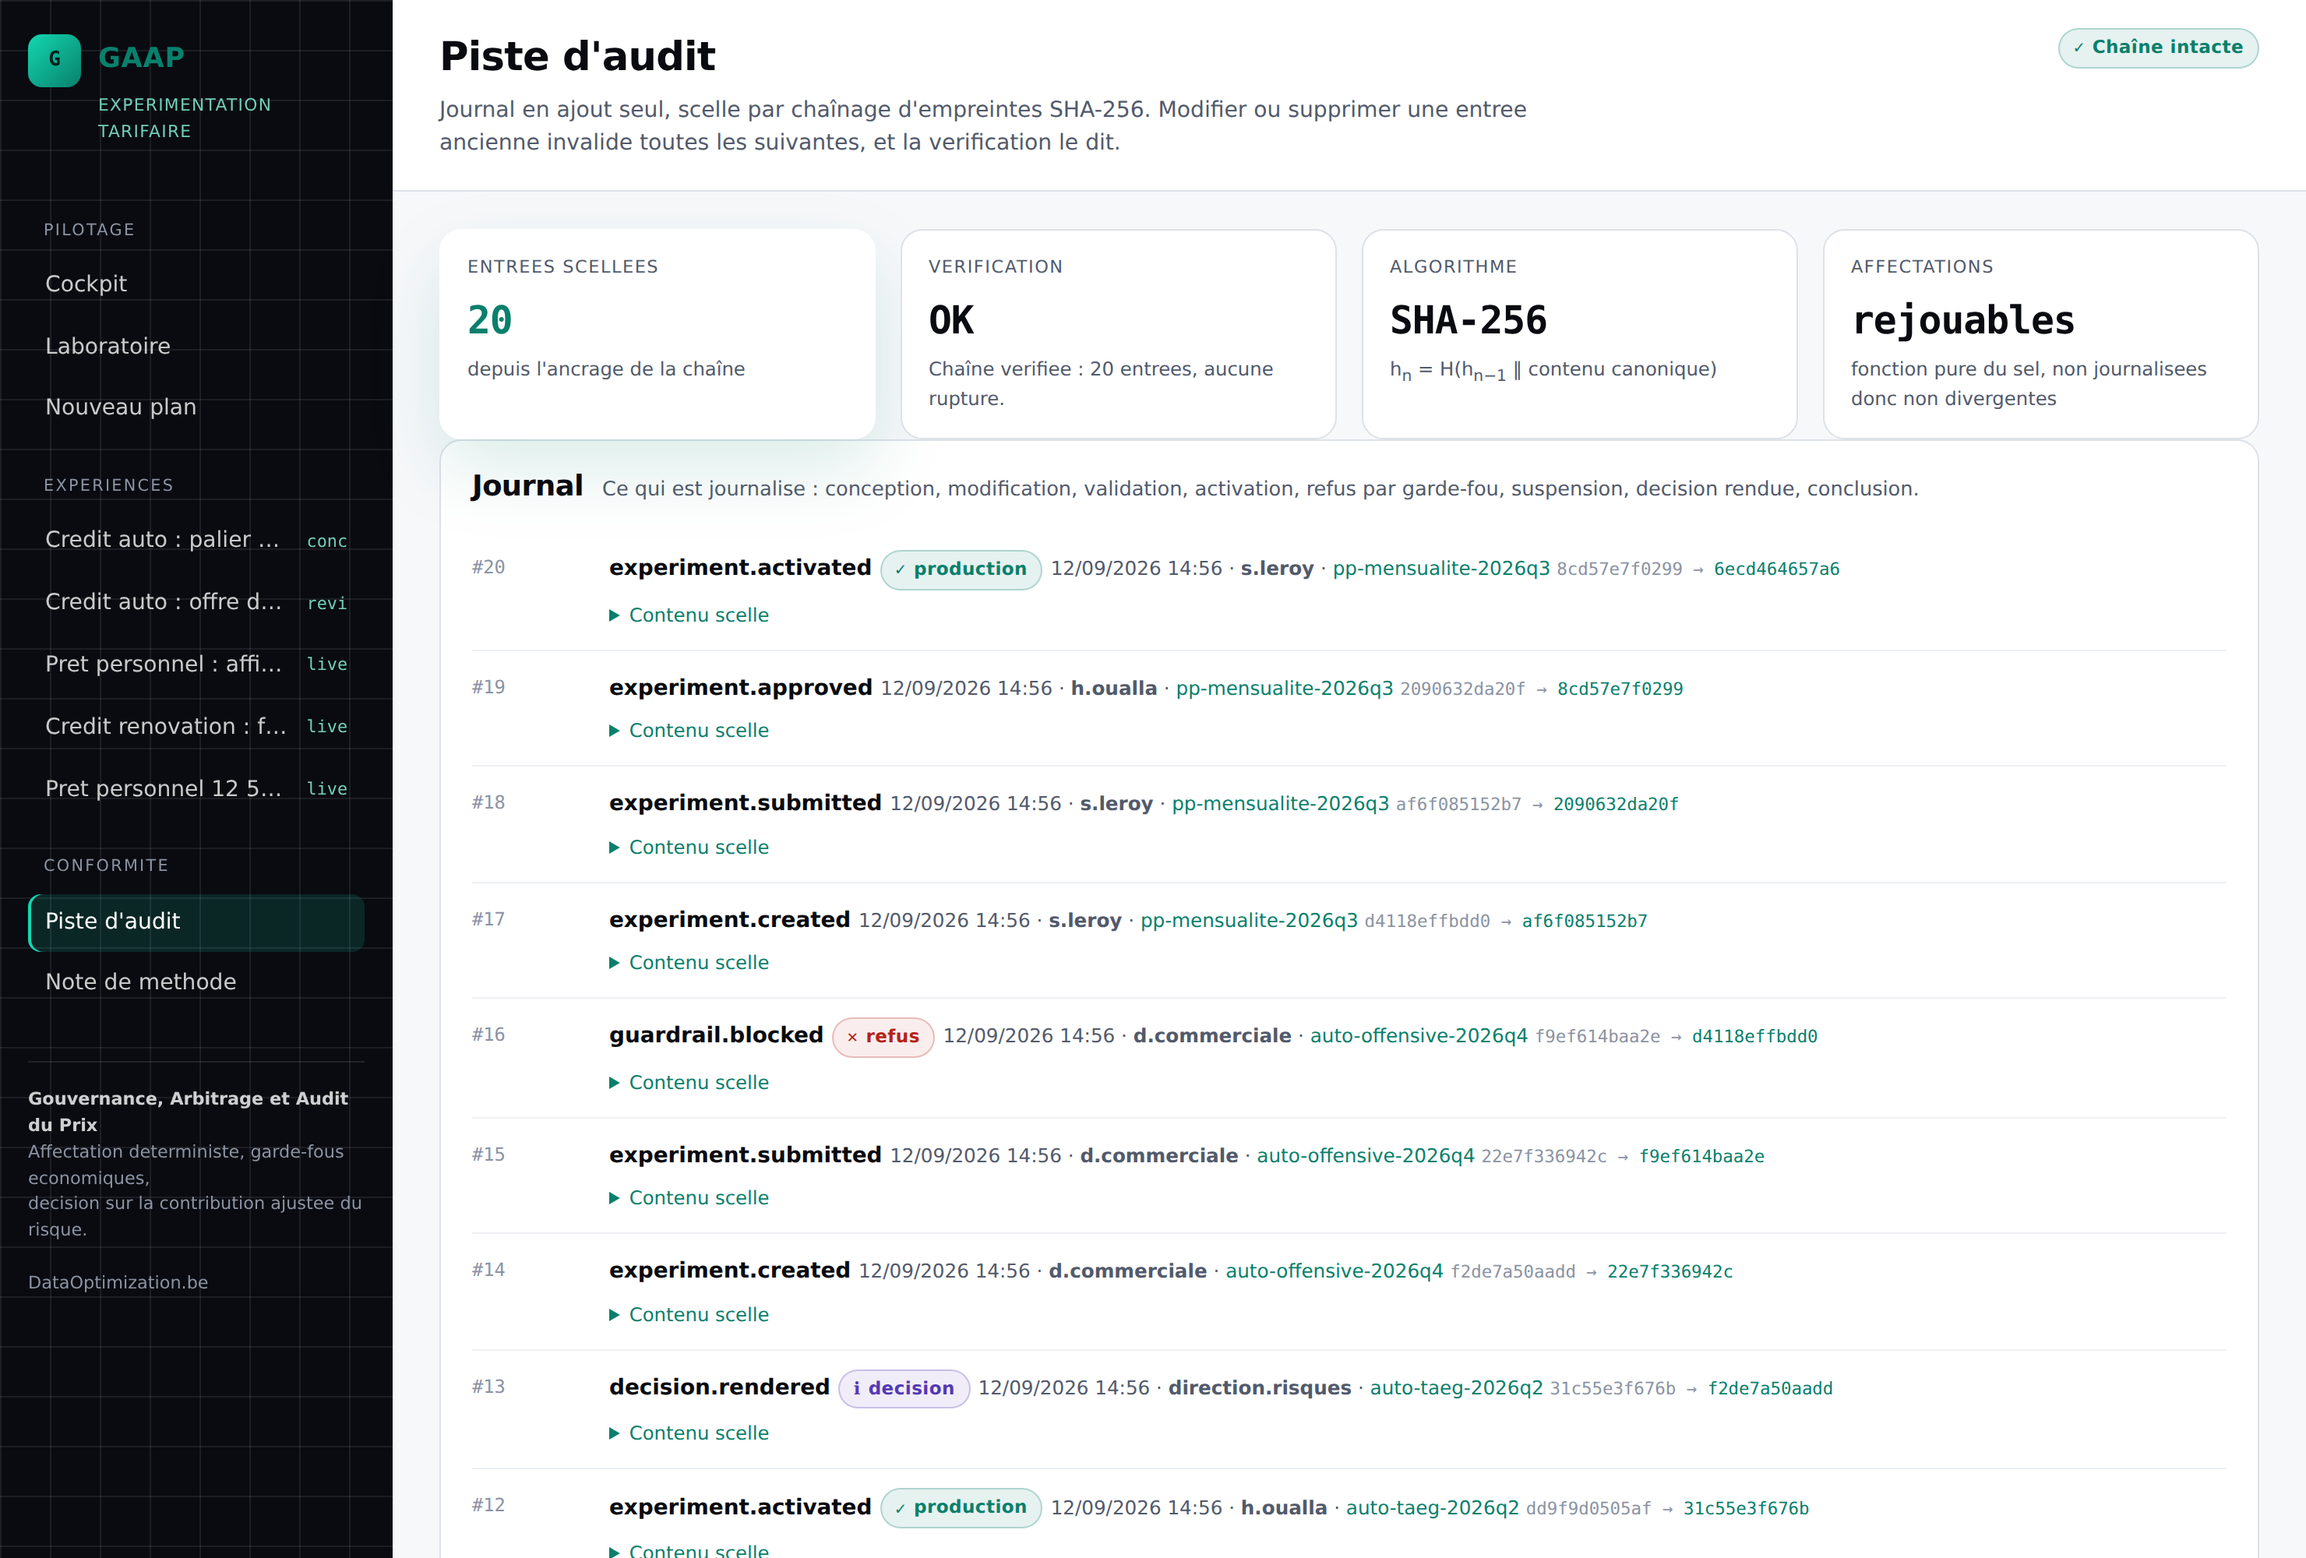
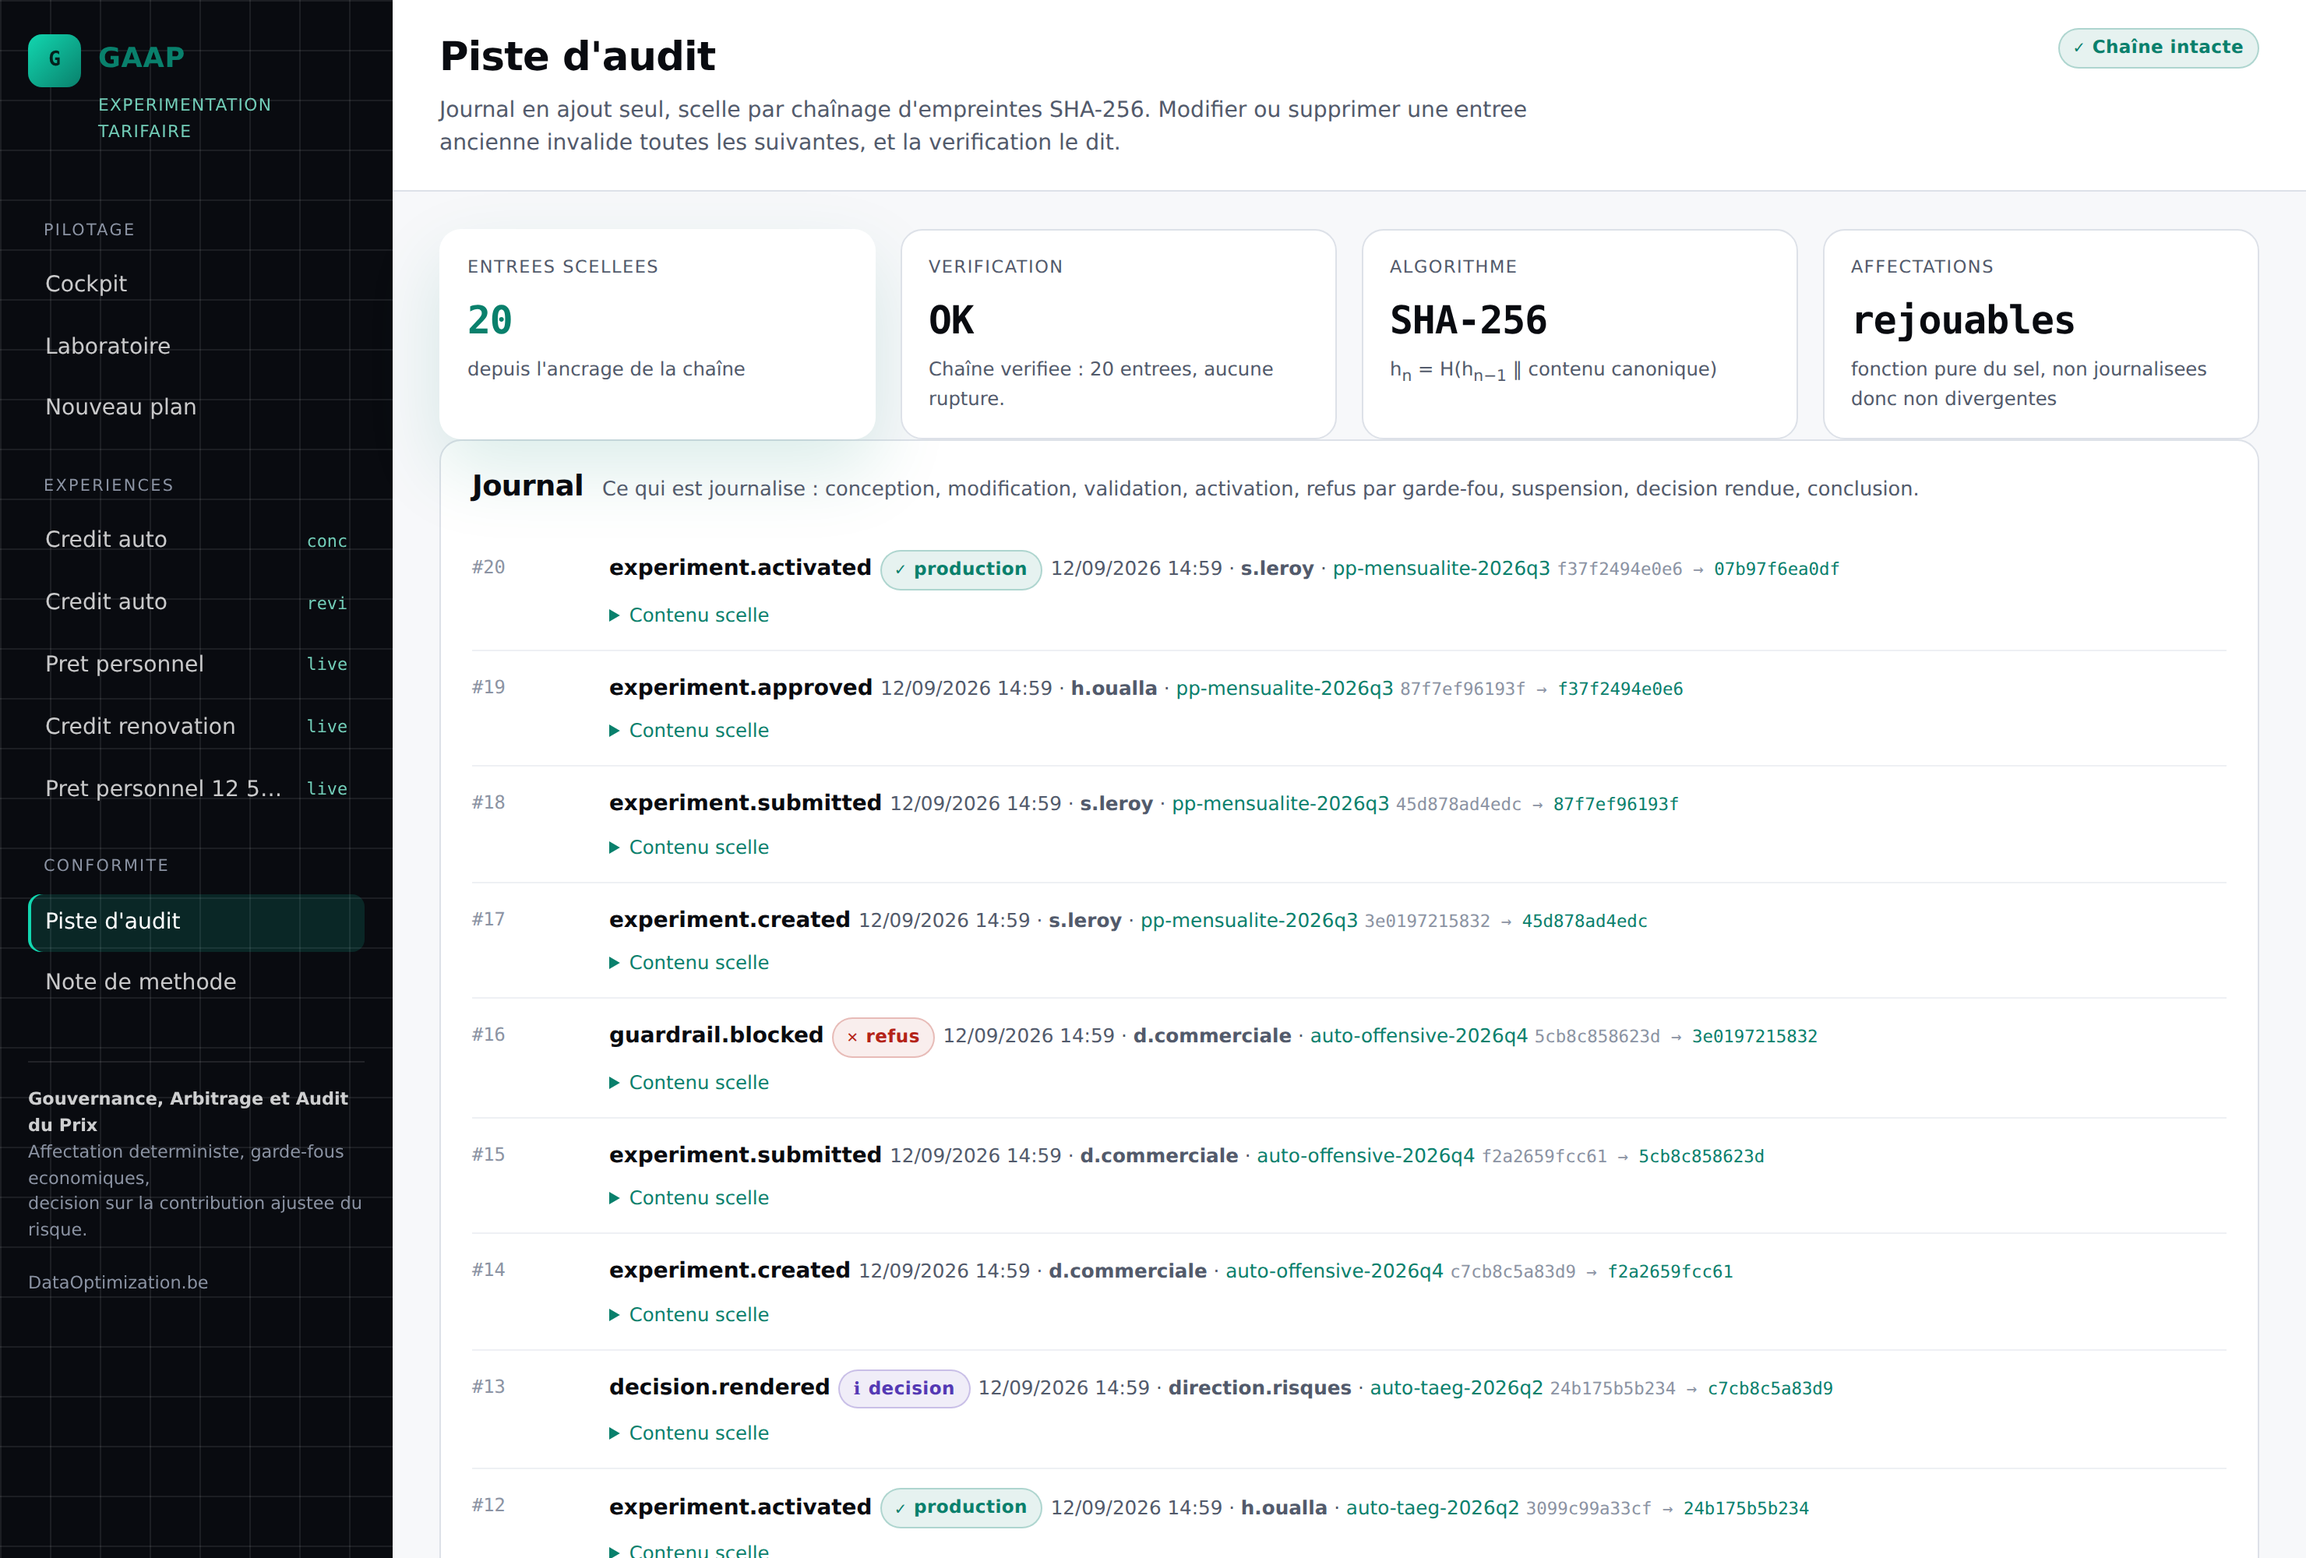
Restaure le trait d'union dans les noms d'experiences
Le commit precedent avait remplace le trait d'union separateur des titres
d'experiences par un deux-points, par exces de zele : « Pret personnel
12 500 EUR - echelle de TAEG » est un usage typographique normal et n'a rien
du tic de ponctuation vise.

Le cadratin reste banni du depot, le trait d'union orthographique reste en
place.

Claude-Session: https://claude.ai/code/session_01EVQ9i8KhZTisCbb9mNP6nF

diff --git a/gaap/demo.py b/gaap/demo.py
@@ -83,7 +83,7 @@ def build_portfolio() -> list[tuple[Experiment, dict]]:
     portfolio.append((
         Experiment(
             key="pp-taeg-2026q3",
-            name="Pret personnel 12 500 EUR : echelle de TAEG",
+            name="Pret personnel 12 500 EUR - echelle de TAEG",
             product="Pret personnel",
             hypothesis=(
                 "Le TAEG courant de 6,90 % est positionne sous le prix qui maximise la "
@@ -124,7 +124,7 @@ def build_portfolio() -> list[tuple[Experiment, dict]]:
     portfolio.append((
         Experiment(
             key="reno-frais-2026q3",
-            name="Credit renovation : frais de dossier",
+            name="Credit renovation - frais de dossier",
             product="Credit renovation energetique",
             hypothesis=(
                 "La suppression des frais de dossier (125 EUR) ameliore le take-up "
@@ -162,7 +162,7 @@ def build_portfolio() -> list[tuple[Experiment, dict]]:
     portfolio.append((
         Experiment(
             key="auto-taeg-2026q2",
-            name="Credit auto : palier 25 bps",
+            name="Credit auto - palier 25 bps",
             product="Credit auto",
             hypothesis=(
                 "Un palier de 25 bps est invisible pour le client sur un marche ou la "
@@ -200,7 +200,7 @@ def build_portfolio() -> list[tuple[Experiment, dict]]:
     portfolio.append((
         Experiment(
             key="auto-offensive-2026q4",
-            name="Credit auto : offre de conquete 3,90 %",
+            name="Credit auto - offre de conquete 3,90 %",
             product="Credit auto",
             hypothesis=(
                 "Un taux d'appel a 3,90 % sur les primo-accedants doit capter des parts "
@@ -236,7 +236,7 @@ def build_portfolio() -> list[tuple[Experiment, dict]]:
     portfolio.append((
         Experiment(
             key="pp-mensualite-2026q3",
-            name="Pret personnel : affichage mensualite",
+            name="Pret personnel - affichage mensualite",
             product="Pret personnel",
             hypothesis=(
                 "Presenter la mensualite avant le TAEG reduit la sensibilite au prix "
